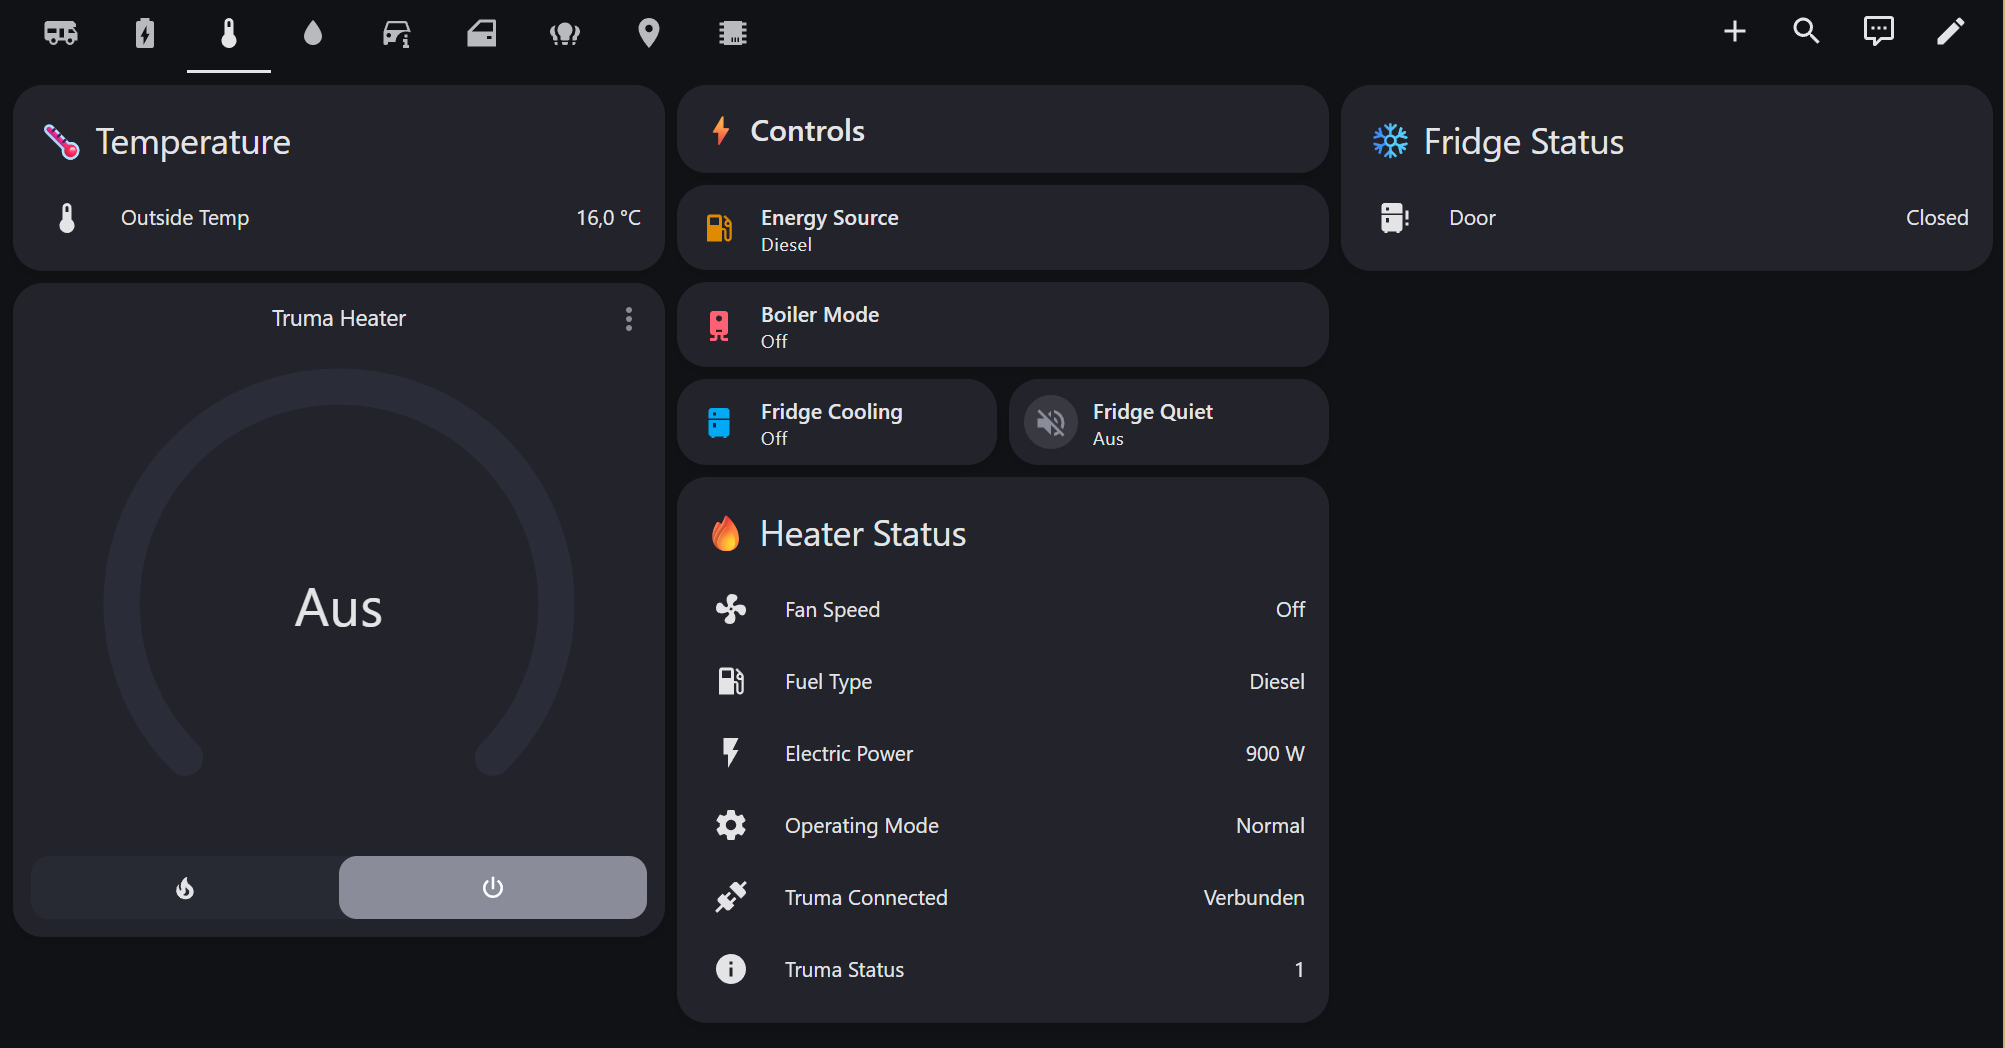
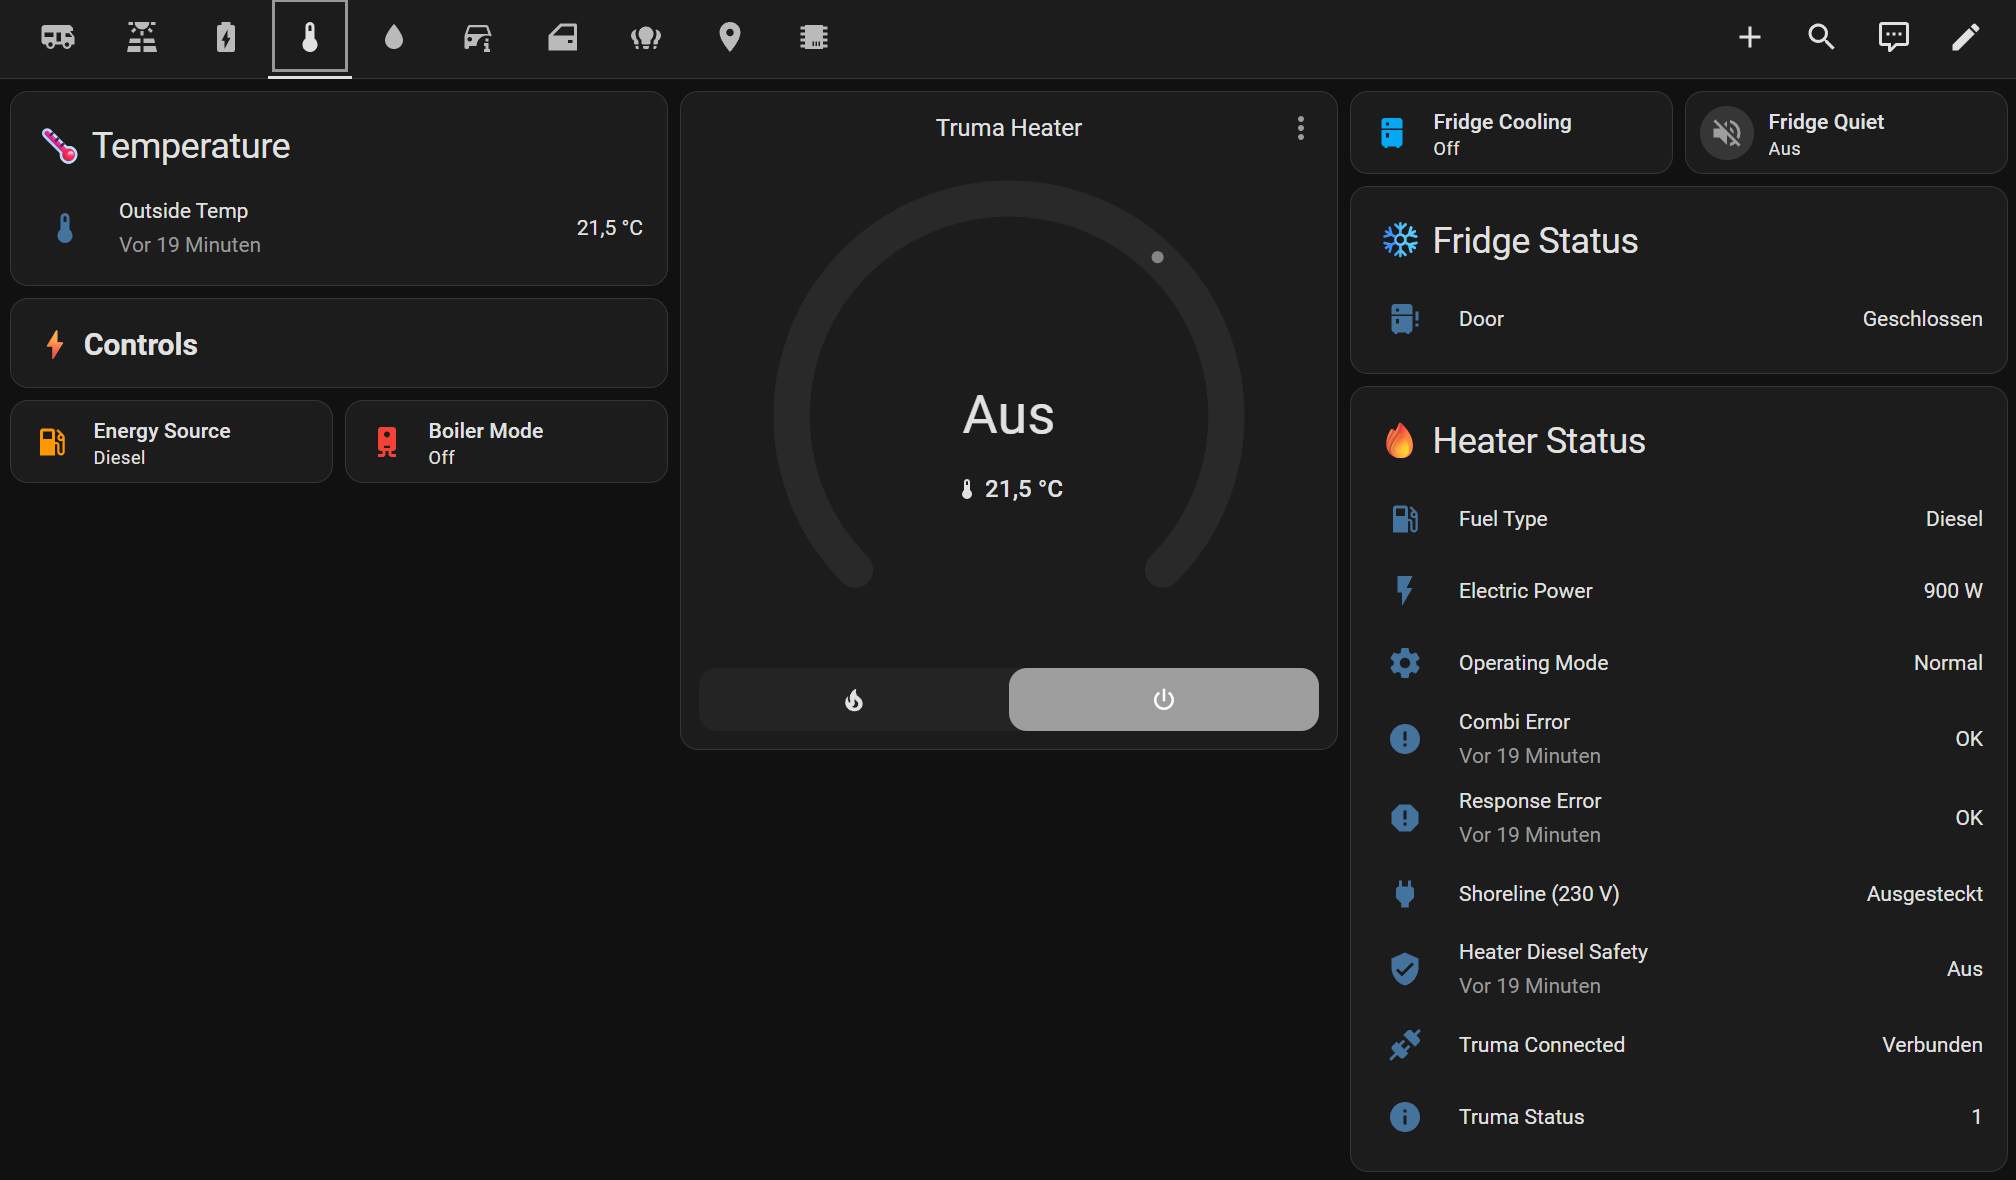
feat: bus 76 water tank levels for ML-T 570 (v2.63.5)

diff --git a/docs/sensor-map.md b/docs/sensor-map.md
@@ -85,7 +85,7 @@ Fields starting with `_` (e.g. `_comment`, `_doc`, `_vehicles`) are ignored by t
 | File | Entries | Buses | Loaded when | Purpose |
 |------|---------|-------|-------------|---------|
 | `base.json` | 63 | 1, 3, 30, 45 | Always (first) | Universal sensors shared by ALL EHG vehicles |
-| `hymer.json` | 104 | 8, 11–27, 34, 37, 43–44, 49, 58, 66, 74, 99, 114, 121 | Brand = HYMER | S600/S700: lights, Voltronic solar, Thetford fridge, Truma, BOS BMS, Victron. ML-T 570 CrossOver: bedroom ceiling (bus 14), dinette pendant (bus 66), Thetford Compressor T2120C fridge (bus 114), SIU smart sensor (bus 74). |
+| `hymer.json` | 106 | 8, 11\u201327, 34, 37, 43\u201344, 49, 58, 66, 74, 76, 99, 114, 121 | Brand = HYMER | S600/S700: lights, Voltronic solar, Thetford fridge, Truma, BOS BMS, Victron. ML-T 570 CrossOver: bedroom ceiling (bus 14), dinette pendant (bus 66), Thetford Compressor T2120C fridge (bus 114), SIU smart sensor (bus 74), water tanks (bus 76). |
 | `eriba.json` | 33 | 18, 59, 60, 93 | Brand = Eriba | Eriba Car 602: Dometic fridge, shower light, Truma AC, furniture light |
 | `buerstner.json` | — | — | Brand = Bürstner | Community-contributed (empty) |
 | `dethleffs.json` | — | — | Brand = Dethleffs | Community-contributed (empty) |
@@ -665,6 +665,18 @@ SIU sensor ecosystem documentation.
 |------|------------|------|-------|
 | (74, 1) | `smart_temperature_1` | °C | Temperature reading. User reports 37.0 °C matching EHG app. |
 | (74, 2) | `smart_humidity_1` | % | Humidity reading. User reports 32–33 % matching EHG app. |
+
+## Bus 76 — Water tank levels (ML-T 570 CrossOver, confirmed 2026-06-08)
+
+Not present on Grand Canyon S 600/S 700 — those use bus 3 slots 8/9 (`fresh_water_level_ebl` /
+`grey_water_level_ebl`) from the CBE EBL402 controller. The ML-T 570 uses a separate bus 76
+for water levels. Confirmed by @mcfly1969 by running water and watching discovered sensor
+changes in real time ([#8](https://github.com/BetaHydri/hymer-connect-ha-ble/issues/8)).
+
+| Slot | Sensor Name | Unit | Notes |
+|------|------------|------|-------|
+| (76, 1) | `fresh_water_level` | % | Fresh water tank level. Value decreases when water flows out. |
+| (76, 2) | `gray_water_level` | % | Grey water tank level. Value increases when drain water flows in. |
 
 ## Bus 121 — Victron MultiPlus 12/1600/70 (inverter/charger) — NON-FUNCTIONAL
 

diff --git a/CHANGELOG.md b/CHANGELOG.md
@@ -5,6 +5,15 @@ All notable changes to this project will be documented in this file.
 The format is based on [Keep a Changelog](https://keepachangelog.com/en/1.1.0/),
 and this project adheres to [Semantic Versioning](https://semver.org/spec/v2.0.0.html).
 
+## [2.63.5] - 2026-06-08
+
+### Added
+
+- **Bus 76 — ML-T 570 water tank levels.** The ML-T 570 uses **bus 76** for water levels instead of bus 3 slots 8/9 (which the S 600/S 700 uses via the CBE EBL402). Confirmed by @mcfly1969 by running water and watching discovered sensor changes ([#8](https://github.com/BetaHydri/hymer-connect-ha-ble/issues/8)):
+  - `76,1` → `sensor.fresh_water_level`: fresh water tank level in % (value decreases when water flows)
+  - `76,2` → `sensor.gray_water_level`: grey water tank level in % (value increases when drain fills)
+- The existing `fresh_water_level_ebl` / `grey_water_level_ebl` sensors (bus 3, slots 8/9) remain for S 600/S 700 users.
+
 ## [2.63.4] - 2026-06-08
 
 ### Removed

diff --git a/README.md b/README.md
@@ -1448,6 +1448,7 @@ graph TB
 | 58 | `heater` | PIA | Truma Combi D6E | Setpoint, fan speed, fuel type, electric power, operating mode |
 | 66 | — | PIA | ML-T 570 dinette pendant lamp | On/off, brightness (member of Wohnen group, bus 24) |
 | 74 | — | PIA | ML-T 570 SIU Smart Sensor | Temperature (°C), humidity (%) — first SIU external sensor mapped |
+| 76 | — | PIA | ML-T 570 water tanks | Fresh water level (%), grey water level (%) — distinct from bus 3 EBL |
 | 99 | `can2` | **CAN** | BOS LUX LiFePO4 BMS | Pack V/A/°C, SOC, SoH, capacity, charge detect, device failure |
 | 114 | — | PIA | ML-T 570 Thetford Compressor T2120C fridge | Power, silent/night mode, cooling step 1–5, freezer level 0–3, door, warning |
 | 121 | — | PIA | Victron MultiPlus | Inverter/charger state, V/A/Hz, shore input (disabled — **non-functional**, VE.Bus incompatible with vehicle CAN) |
